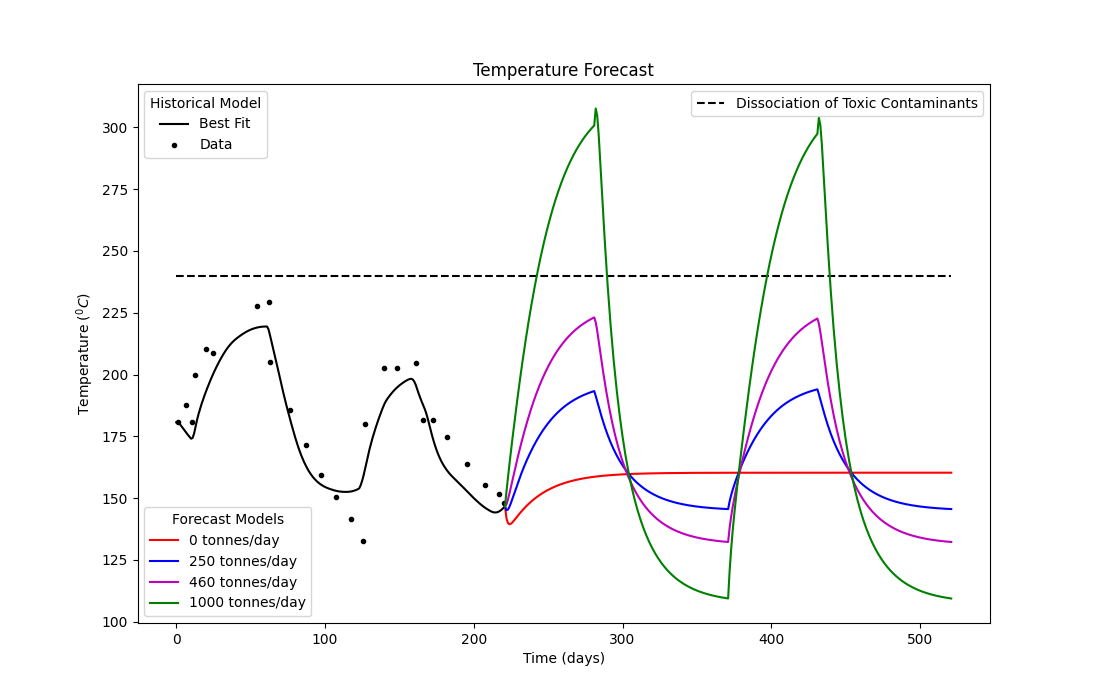
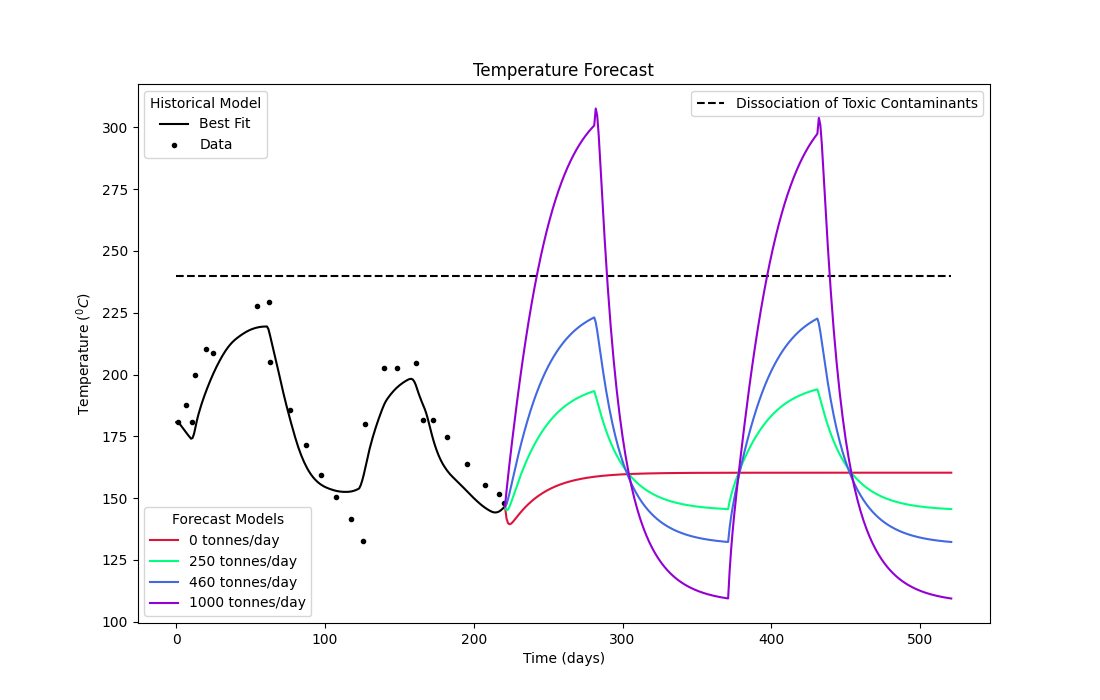
Updated colours of models for forecast plot

diff --git a/main.py b/main.py
@@ -641,10 +641,10 @@ def temp_forecast():
     b, = ax1.plot(te, Te-273.15, 'k.', label='Data')
     c, = ax1.plot(tlim, lim, 'k--', label='Dissociation of Toxic Contaminants')
 
-    d, = ax1.plot(tzero, Tzero-273.15, 'r-', label='0 tonnes/day')
-    e, = ax1.plot(t250, T250-273.15, 'b-', label='250 tonnes/day')
-    f, = ax1.plot(t460, T460-273.15, 'm-', label='460 tonnes/day')
-    g, = ax1.plot(t1000, T1000-273.15, 'g-', label='1000 tonnes/day')
+    d, = ax1.plot(tzero, Tzero-273.15, 'crimson', label='0 tonnes/day')
+    e, = ax1.plot(t250, T250-273.15, 'springgreen', label='250 tonnes/day')
+    f, = ax1.plot(t460, T460-273.15, 'royalblue', label='460 tonnes/day')
+    g, = ax1.plot(t1000, T1000-273.15, 'darkviolet', label='1000 tonnes/day')
 
     # Drawing labels and legends
     ax1.set_ylabel('Temperature ($^{0}C$)')
@@ -806,8 +806,8 @@ def uncertainty():
     plt.show()
 
 if __name__ == "__main__":
-    plot_models()
-    #temp_forecast()
+    #plot_models()
+    temp_forecast()
     #uncertainty()
 
     
